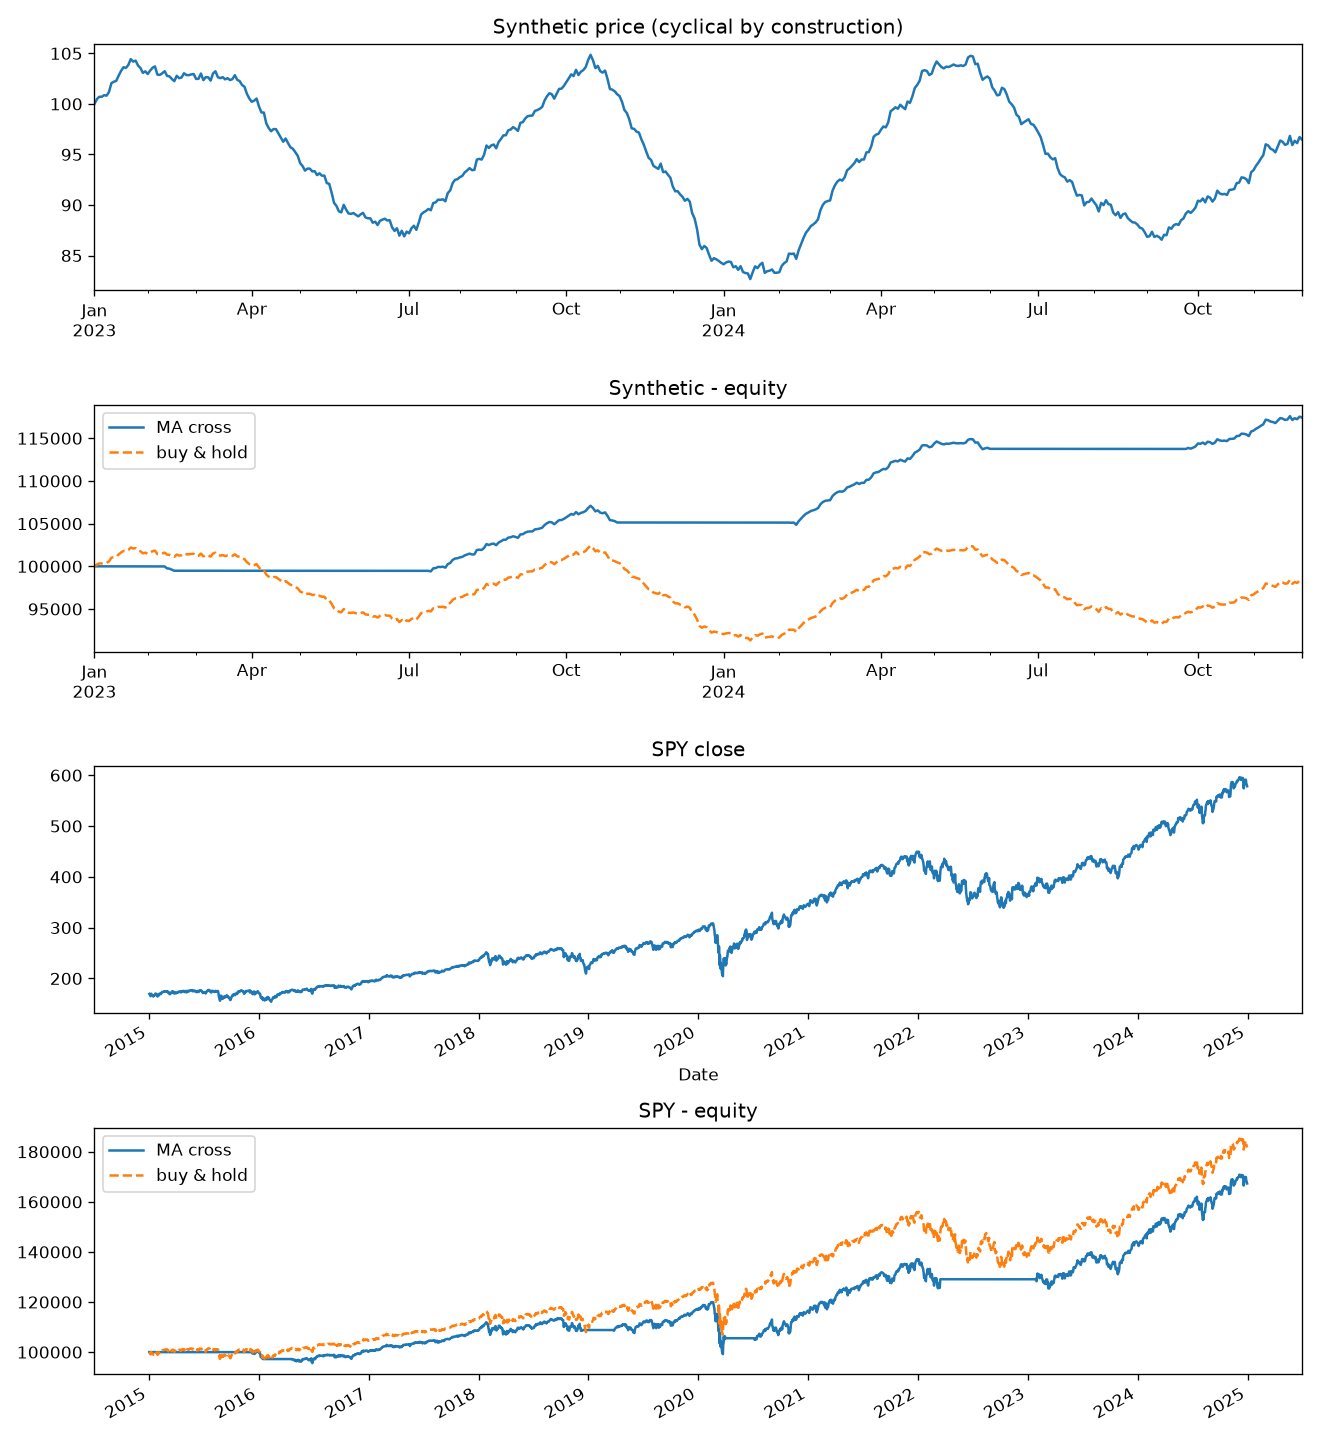
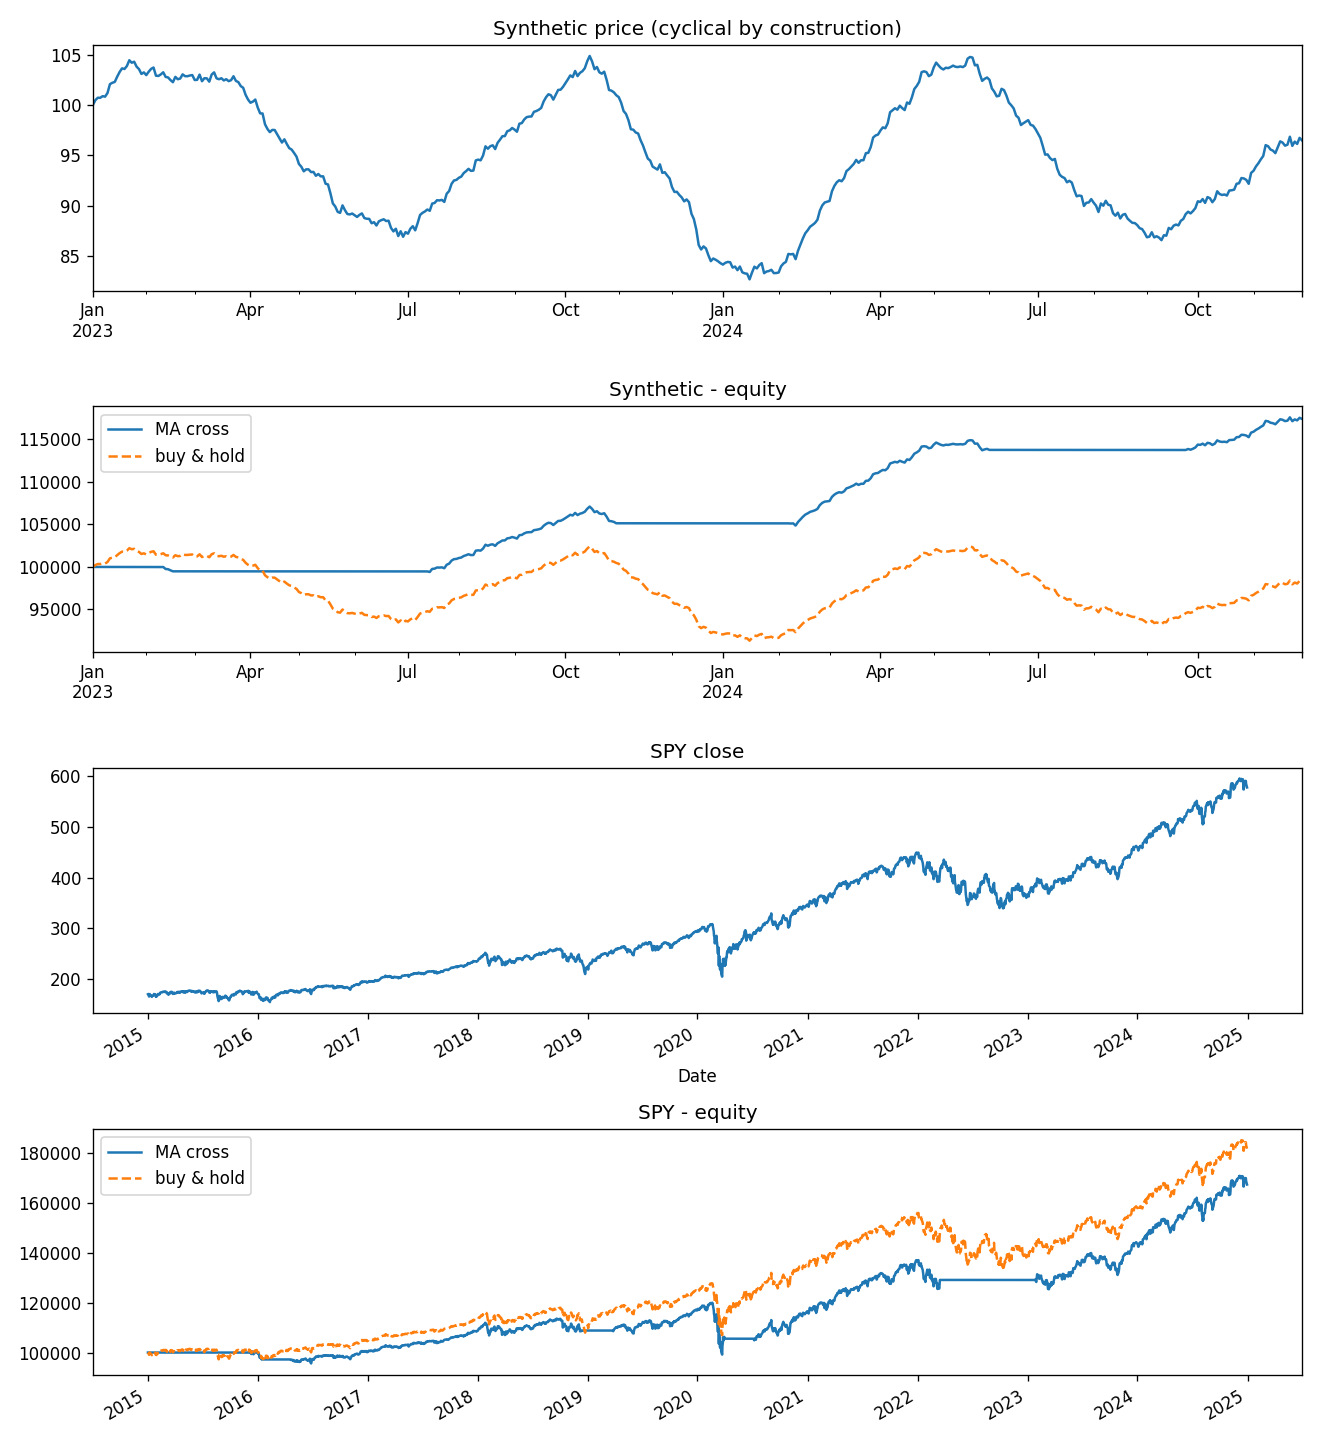
Test the "costs aren't the story" claim instead of asserting it
RESULTS.md says the $102 of transaction costs don't explain the SPY
whipsaw underperformance, but that was a one-off number with no sense
of how far it could be wrong before it mattered. Added
cost_sensitivity() to run_backtest.py: reruns the same SPY MA-cross
backtest at multiples of the base slippage/commission. The strategy
only ever decides when to trade from price, never from cash or fill
price, so every multiplier produces the identical trade list - only
the cost of making those trades changes, which means final-equity
minus a same-signals zero-cost run is exactly the dollar cost, nothing
else moving.

Even at 100x realistic costs (2% one-way slippage, $0.50/share
commission - not what any real broker charges), total cost is $10,189,
still under the $14,371 gap. Added the table to RESULTS.md.

Claude-Session: https://claude.ai/code/session_01CariVea9RWESZzJ2pEL1Dd

diff --git a/run_backtest.py b/run_backtest.py
@@ -59,14 +59,42 @@ def stats(equity: pd.Series) -> dict:
     }
 
 
-def run(prices: pd.DataFrame, strategy_cls, trade_size: int, **kwargs) -> pd.Series:
+def run(prices: pd.DataFrame, strategy_cls, trade_size: int, slippage_bps: float = 2.0,
+       commission_per_share: float = 0.005, **kwargs) -> pd.Series:
     """One full backtest, fresh components each time (they carry state)."""
     data = HistoricalDataHandler(prices)
     strategy = strategy_cls(data, **kwargs)
     portfolio = Portfolio(data, initial_cash=100_000.0, trade_size=trade_size)
-    execution = SimulatedExecutionHandler(data, slippage_bps=2.0,
-                                          commission_per_share=0.005)
+    execution = SimulatedExecutionHandler(data, slippage_bps=slippage_bps,
+                                          commission_per_share=commission_per_share)
     return Backtest(data, strategy, portfolio, execution).run()
+
+
+def cost_sensitivity(prices: pd.DataFrame, strategy_cls, trade_size: int,
+                     base_slippage_bps: float = 2.0, base_commission: float = 0.005,
+                     multipliers=(1, 5, 10, 25, 50, 100), **kwargs) -> list[dict]:
+    """How much of the result is costs, and at what multiple of realistic
+    costs would that stop being true?
+
+    The strategy decides WHEN to trade from price alone (moving averages),
+    never from cash or fill price, so the sequence of buy/sell bars is
+    identical at every cost level. That means the gap between a run's final
+    equity and a same-signals zero-cost run's final equity is exactly the
+    dollar cost of trading — nothing else about the run is moving.
+    """
+    zero_cost_final = run(prices, strategy_cls, trade_size, slippage_bps=0.0,
+                          commission_per_share=0.0, **kwargs).iloc[-1]
+
+    rows = []
+    for m in multipliers:
+        equity = run(prices, strategy_cls, trade_size,
+                    slippage_bps=base_slippage_bps * m,
+                    commission_per_share=base_commission * m, **kwargs)
+        s = stats(equity)
+        rows.append({"multiplier": m, "sharpe": s["sharpe"],
+                    "total_return": s["total_return"],
+                    "cost": zero_cost_final - equity.iloc[-1]})
+    return rows
 
 
 def report(label: str, equity: pd.Series) -> dict:
@@ -100,6 +128,16 @@ def main() -> None:
         report("SPY 2015-2024 - MA cross", spy_ma)
         spy_bh = run(spy, BuyAndHoldStrategy, trade_size=200)
         report("SPY 2015-2024 - buy & hold", spy_bh)
+
+        print("\nCost sensitivity - SPY MA cross at multiples of the base "
+              "2bps slippage / $0.005 commission:")
+        print(f"{'multiplier':>10} {'sharpe':>8} {'return':>9} {'total cost':>11}")
+        for row in cost_sensitivity(spy, MovingAverageCrossStrategy, trade_size=200,
+                                    short_window=50, long_window=200):
+            print(f"{row['multiplier']:>9}x {row['sharpe']:>8.2f} "
+                  f"{row['total_return']:>9.2%} {row['cost']:>10,.0f}$")
+        print("RESULTS.md says costs aren't the story ($102 against a $14,371 gap) -")
+        print("this is what it would take for that to stop being true.")
 
     n_panels = 2 if spy is None else 4
     fig, axes = plt.subplots(n_panels, 1, figsize=(11, 3 * n_panels))

diff --git a/RESULTS.md b/RESULTS.md
@@ -46,6 +46,26 @@ Time in market: **74%**. Total transaction costs: **$102** ($9 commission + $93 
 $14,371 of underperformance. **Costs are not the story.** Anyone who blames the shortfall on
 frictions hasn't read the trade log.
 
+That's an assertion until it's tested against something. `cost_sensitivity()` reruns the same
+SPY MA-cross backtest at multiples of the 2bps/$0.005 base cost — the strategy decides *when* to
+trade from price alone, never from cash or fill price, so every run makes the identical trades;
+only the cost of making them changes:
+
+| Cost multiplier | Sharpe | Return | Total cost |
+|---|---|---|---|
+| 1x (base case above) | 0.75 | 67.35% | $102 |
+| 5x | 0.74 | 66.94% | $509 |
+| 10x | 0.74 | 66.43% | $1,019 |
+| 25x | 0.72 | 64.90% | $2,547 |
+| 50x | 0.69 | 62.35% | $5,095 |
+| 100x | 0.63 | 57.26% | $10,189 |
+
+Even at **100x** realistic costs — 2% one-way slippage, $0.50/share commission, nothing a real
+broker charges — total costs reach $10,189, still short of the $14,371 whipsaw-driven gap. Costs
+scale roughly linearly with the multiplier because the trade list never changes; the underperformance
+does not, because it was never a cost problem. This is the same claim as above, now with a number
+attached to "how wrong would the cost model have to be."
+
 The story is the whipsaws — every sell-then-buy-higher pair, priced out:
 
 | Round trip | Out at | Back in at | Cost (200 sh) |
